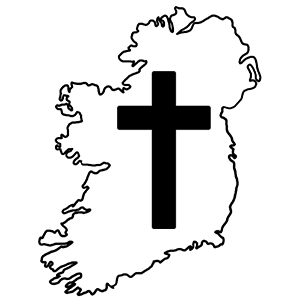
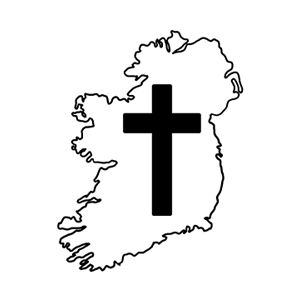
Update church-state image, crop. Change db population repo back to this repo - JUST FOR LOLZ

Changed region(s): [[0.12, 0.0, 0.87, 0.99], [0.69, 0.03, 0.78, 0.09]]

diff --git a/server.js b/server.js
@@ -214,7 +214,7 @@ var App = function() {
             require( 'https' )
                 .get({
                     hostname: 'api.github.com',
-                    path: '/repos/digithree/fake/commits',
+                    path: '/repos/digithree/constitution-of-ireland-render/commits',
                     headers: {
                         'User-Agent' : 'digithree'
                     }
